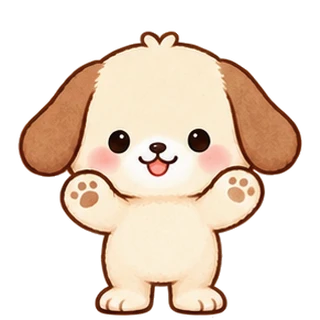
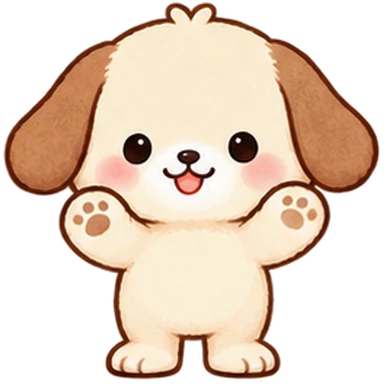
파티 친구 키를 아바타 키에 맞춤
Claude-Session: https://claude.ai/code/session_01QsJz8svXLJhiXtuEPA1E7w

diff --git a/src/components/PartyGuests.tsx b/src/components/PartyGuests.tsx
@@ -7,9 +7,15 @@ import { playOrder, playTap } from '../lib/sound'
 interface Bubble { text: string; until: number }
 
 /**
+ * 동물 그림 칸(정사각형) 너비 ÷ 아바타 너비. 아바타 그림(1024×1536)에서 머리 꼭대기~발은 약 58~1504px(1444px),
+ * 동물 그림(public/cafe/stand)은 귀 끝~발이 칸 높이에 꽉 차 있어서, 칸 높이 = 아바타 키가 되게 한다
+ */
+export const GUEST_PER_AVATAR_W = 1444 / 1024
+
+/**
  * 집에 초대한 동물 친구들: 하나씩 문으로 들어오며(카페 주문 벨 소리) 인사하고, 바닥을 자연스럽게 돌아다니며 이야기한다.
  * invite 가 바뀌면 새로 고른 친구만 더 들어오고, leave 가 켜지면 인사하고 모두 나간다.
- * size(y) 는 그 높이에서의 동물 그림 너비(%), z(y) 는 그 높이에서의 겹침 순서다.
+ * size(y) 는 그 높이에서의 동물 그림 칸 너비(%, 칸 높이 = 동물 키 = 아바타 키), z(y) 는 그 높이에서의 겹침 순서다.
  */
 export function PartyGuests({ invite, leave, kid, floor, me, size, z, onGone }: { invite: number[]; leave: boolean; kid?: string; floor: Floor; me: { x: number; y: number }; size: (y: number) => number; z: (y: number) => number; onGone: () => void }) {
   const [guests, setGuests] = useState<Guest[]>([])
@@ -86,7 +92,7 @@ export function PartyGuests({ invite, leave, kid, floor, me, size, z, onGone }: 
       const a = CALL_ANIMALS[g.animal]
       const w = size(g.y)
       return (
-        <div key={a.img} className="absolute" style={{ left: `${g.x}%`, top: `${g.y}%`, width: `${w}%`, aspectRatio: '1 / 1', transform: 'translate(-50%, -98%)', zIndex: z(g.y) }}>
+        <div key={a.img} className="absolute" style={{ left: `${g.x}%`, top: `${g.y}%`, width: `${w}%`, aspectRatio: '1 / 1', transform: 'translate(-50%, -99.5%)', zIndex: z(g.y) }}>
           {/* 누르면 그 친구가 한마디 한다 */}
           <button aria-label={`${a.name}랑 이야기하기`} onPointerUp={(e) => e.stopPropagation()} onClick={() => { playTap(); say(g.animal, partyLine(g.animal, guests.map((h) => h.animal).filter((x) => x !== g.animal), kid)) }}
             className={`relative block h-full w-full border-0 bg-transparent p-0 ${g.wait > 0 ? '' : 'walk-bob'}`}>
@@ -103,7 +109,7 @@ export function PartyGuests({ invite, leave, kid, floor, me, size, z, onGone }: 
     {guests.map((g) => {
       const b = bubbles[g.animal]
       return b ? (
-        <div key={`b-${g.animal}`} aria-live="polite" className="pointer-events-none absolute" style={{ left: `${g.x}%`, top: `${g.y}%`, width: `${size(g.y)}%`, aspectRatio: '1 / 1', transform: 'translate(-50%, -98%)', zIndex: 100000 }}>
+        <div key={`b-${g.animal}`} aria-live="polite" className="pointer-events-none absolute" style={{ left: `${g.x}%`, top: `${g.y}%`, width: `${size(g.y)}%`, aspectRatio: '1 / 1', transform: 'translate(-50%, -99.5%)', zIndex: 100000 }}>
           <p className="absolute bottom-[96%] left-1/2 m-0 w-max max-w-[11rem] -translate-x-1/2 rounded-2xl bg-white px-2.5 py-1.5 text-center text-[13px] leading-snug font-bold text-[#6b4b52] shadow-md">{b.text}</p>
         </div>
       ) : null

diff --git a/src/components/TravelScene.tsx b/src/components/TravelScene.tsx
@@ -11,7 +11,7 @@ import { NpcDialog } from './NpcDialog'
 import { useGame } from './TravelGame'
 import { useWalkKeys } from './useWalkKeys'
 import { TravelDecor } from './TravelDecor'
-import { PartyGuests, PartyInvite } from './PartyGuests'
+import { GUEST_PER_AVATAR_W, PartyGuests, PartyInvite } from './PartyGuests'
 import { avatarVersion, getAvatar, subscribeAvatar } from '../lib/avatars'
 
 import { getTravelRoom, subscribeTravelRooms, travelRoomsVersion } from '../lib/travelRooms'
@@ -292,8 +292,8 @@ export function TravelScene({ placeId, assign, outfit, tweaks, onExit, onWear, o
             me={pos}
             // 장소 그림은 바닥(풀밭 등) 그림이 시작하는 곳보다 조금 아래부터: 하늘에 떠 보이지 않게
             floor={{ minX: 8, maxX: 92, minY: layout ? minY + 2 : Math.max(minY, 100 - p.floorH / ROOM_H * 100 + 8), maxY: layout ? 96 : WALK_BOUNDS.maxY }}
-            // 동물 그림은 아바타 너비의 0.6배쯤, 아바타보다 아래(앞)에 있으면 아바타 앞에 그린다
-            size={(y) => 0.6 * (layout ? AVATAR_BASE_W * layout.room.avatar.scale / ROOM_W * 100 : 30 * depthScale(y))}
+            // 동물 키는 그 자리에 선 아바타 키와 같게(아바타 크기가 방·깊이마다 바뀌면 같이 바뀐다). 아바타보다 아래(앞)에 있으면 아바타 앞에 그린다
+            size={(y) => GUEST_PER_AVATAR_W * (layout ? AVATAR_BASE_W * layout.room.avatar.scale / ROOM_W * 100 : 30 * depthScale(y))}
             z={(y) => avatarLayer + (y >= posRef.current.y ? 1 : -1)}
             onGone={() => { setParty([]); setPartyEnd(false) }}
           />
